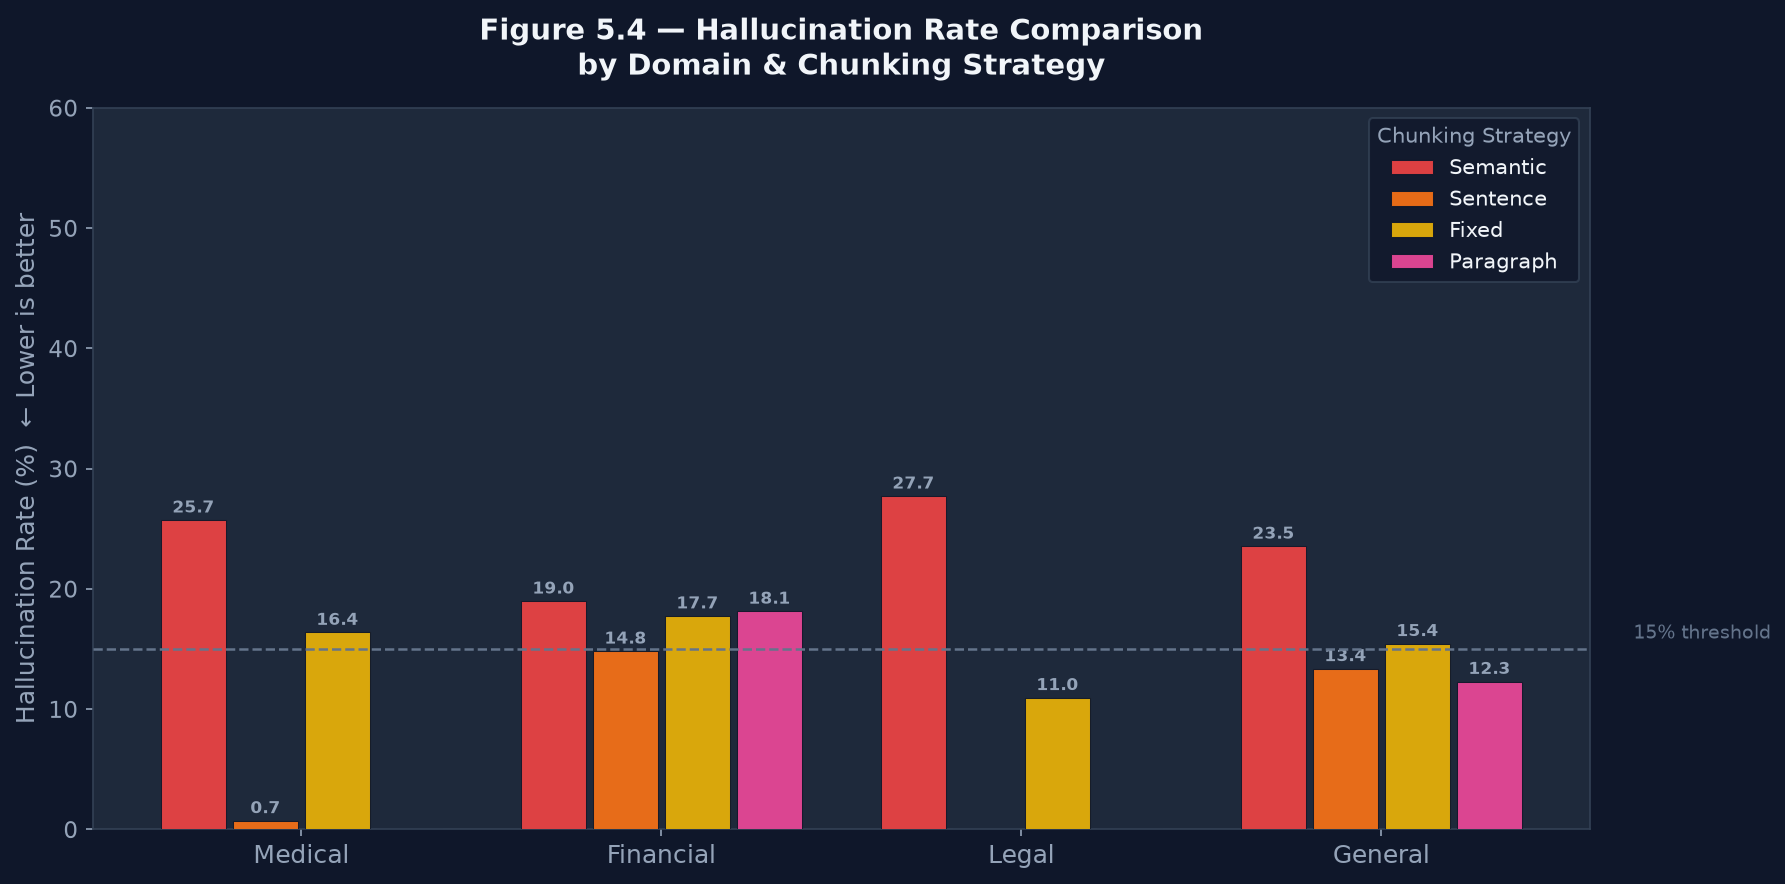
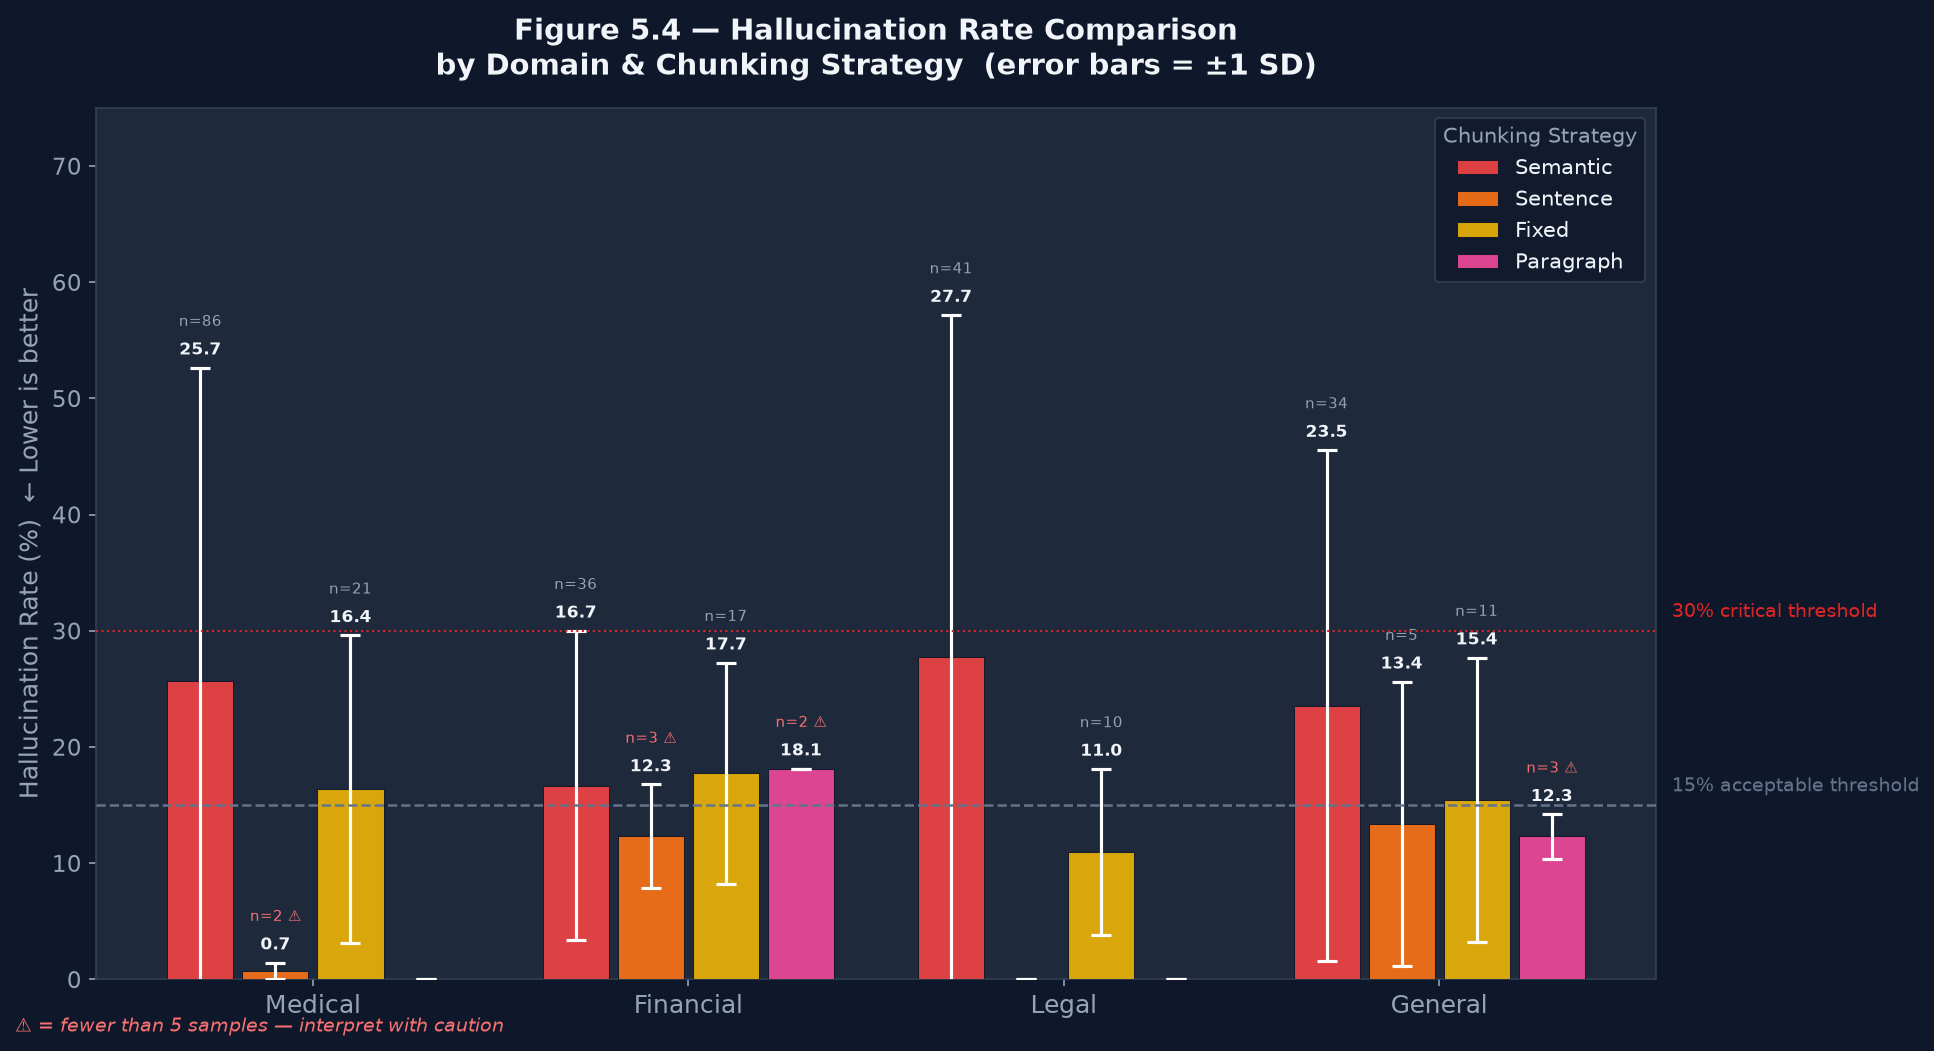
feat: add ±1 SD error bars + sample size annotations to Fig 5.1 & 5.4
- Fig 5.1 (Faithfulness): error bars show std dev per strategy per domain
- Fig 5.4 (Hallucination): error bars + dual threshold lines (15% / 30%)
- Both charts now show n= sample counts with ⚠ warning for n<5
- Added agg_with_stats() helper returning (mean, std, n) per bucket
- Reveals Semantic chunking is highly inconsistent (Legal ±29.5%, Medical ±26.9%)
- Fixed chunking is more reliable: Legal ±7.1%, Financial ±9.5%

diff --git a/scripts/generate_charts.py b/scripts/generate_charts.py
@@ -71,6 +71,24 @@ def agg_by_domain_strategy(metric):
             bucket[(dom, strat)].append(val)
     return {k: np.mean(v) for k, v in bucket.items()}
 
+def agg_with_stats(metric):
+    """Returns (mean, std, n) per (domain, strategy). Used for error bars."""
+    bucket = defaultdict(list)
+    for r in records:
+        dom   = r.get("domain", "")
+        strat = (r.get("config") or {}).get("chunking_strategy", "")
+        val   = r.get("scores", {}).get(metric)
+        if dom in DOMAIN_ORDER and strat in STRATEGY_ORDER and val is not None:
+            bucket[(dom, strat)].append(val)
+    result = {}
+    for k, v in bucket.items():
+        result[k] = (
+            np.mean(v),
+            np.std(v) if len(v) > 1 else 0.0,
+            len(v)
+        )
+    return result
+
 def agg_by_strategy(metric):
     bucket = defaultdict(list)
     for r in records:
@@ -90,42 +108,91 @@ def agg_by_domain(metric):
     return {k: np.mean(v) for k, v in bucket.items()}
 
 # ─────────────────────────────────────────────────────────────────────────────
-# Figure 5.1 — Faithfulness Score Comparison (grouped bar by domain + strategy)
+# Figure 5.1 — Faithfulness Score Comparison  (with ±1 SD error bars)
 # ─────────────────────────────────────────────────────────────────────────────
 def fig51_faithfulness():
-    data = agg_by_domain_strategy("faithfulness")
+    stats = agg_with_stats("faithfulness")
 
-    x     = np.arange(len(DOMAIN_ORDER))
-    width = 0.20
+    x       = np.arange(len(DOMAIN_ORDER))
+    width   = 0.20
     offsets = np.linspace(-1.5, 1.5, 4) * width
 
-    fig, ax = plt.subplots(figsize=(12, 6))
+    fig, ax = plt.subplots(figsize=(13, 7))
     apply_dark_theme(fig, ax)
 
+    LOW_N = 5   # flag bars with fewer than this many samples
+
     for i, strat in enumerate(STRATEGY_ORDER):
-        vals = [data.get((dom, strat), 0) * 100 for dom in DOMAIN_ORDER]
-        bars = ax.bar(x + offsets[i], vals, width * 0.9,
-                      label=strat.capitalize(),
-                      color=STRATEGY_COLORS[strat],
-                      edgecolor=BG, linewidth=0.5, zorder=3)
-        for bar, v in zip(bars, vals):
+        means = []
+        stds  = []
+        ns    = []
+        for dom in DOMAIN_ORDER:
+            entry = stats.get((dom, strat))
+            if entry:
+                m, s, n = entry
+                means.append(m * 100)
+                stds.append(s * 100)
+                ns.append(n)
+            else:
+                means.append(0); stds.append(0); ns.append(0)
+
+        bars = ax.bar(
+            x + offsets[i], means, width * 0.88,
+            label=strat.capitalize(),
+            color=STRATEGY_COLORS[strat],
+            edgecolor=BG, linewidth=0.5, zorder=3
+        )
+        # Error bars (±1 SD)
+        ax.errorbar(
+            x + offsets[i], means, yerr=stds,
+            fmt="none",
+            ecolor="white", elinewidth=1.5, capsize=5, capthick=1.5,
+            zorder=5
+        )
+        # Labels: mean value + sample size
+        for bar, v, s, n in zip(bars, means, stds, ns):
             if v > 0:
-                ax.text(bar.get_x() + bar.get_width()/2, bar.get_height() + 0.5,
-                        f"{v:.1f}", ha="center", va="bottom",
-                        fontsize=8, color=SUBTEXT, fontweight="bold")
+                # Mean value on top of bar
+                label_y = v + s + 1.2
+                ax.text(
+                    bar.get_x() + bar.get_width() / 2, label_y,
+                    f"{v:.1f}",
+                    ha="center", va="bottom",
+                    fontsize=8, color=TEXT, fontweight="bold"
+                )
+                # Sample size below the mean label
+                ax.text(
+                    bar.get_x() + bar.get_width() / 2, label_y + 3.0,
+                    f"n={n}" + (" ⚠" if n < LOW_N else ""),
+                    ha="center", va="bottom",
+                    fontsize=7,
+                    color="#f87171" if n < LOW_N else SUBTEXT
+                )
 
     ax.set_xticks(x)
     ax.set_xticklabels([d.capitalize() for d in DOMAIN_ORDER], fontsize=12)
-    ax.set_ylim(0, 115)
+    ax.set_ylim(0, 135)
     ax.set_ylabel("Faithfulness Score (%)", fontsize=12, color=SUBTEXT)
-    ax.set_title("Figure 5.1 — Faithfulness Score Comparison\nby Domain & Chunking Strategy",
-                 fontsize=14, fontweight="bold", color=TEXT, pad=16)
+    ax.set_title(
+        "Figure 5.1 — Faithfulness Score Comparison\n"
+        "by Domain & Chunking Strategy  (error bars = ±1 SD)",
+        fontsize=14, fontweight="bold", color=TEXT, pad=16
+    )
     ax.yaxis.grid(True, color=GRID, linewidth=0.6, zorder=0)
     ax.set_axisbelow(True)
 
-    leg = ax.legend(title="Chunking Strategy", frameon=True,
-                    facecolor=BG, edgecolor=BORDER,
-                    labelcolor=TEXT, title_fontsize=10, fontsize=10)
+    # Footnote explaining ⚠
+    fig.text(
+        0.01, 0.01,
+        "⚠ = fewer than 5 samples — interpret with caution",
+        fontsize=9, color="#f87171", style="italic"
+    )
+
+    leg = ax.legend(
+        title="Chunking Strategy", frameon=True,
+        facecolor=BG, edgecolor=BORDER,
+        labelcolor=TEXT, title_fontsize=10, fontsize=10
+    )
     leg.get_title().set_color(SUBTEXT)
 
     plt.tight_layout()
@@ -230,16 +297,15 @@ def fig53_answer_relevance():
     print(f"  ✓ {out.name}")
 
 # ─────────────────────────────────────────────────────────────────────────────
-# Figure 5.4 — Hallucination Rate Comparison (stacked / grouped)
+# Figure 5.4 — Hallucination Rate Comparison  (with ±1 SD error bars)
 # ─────────────────────────────────────────────────────────────────────────────
 def fig54_hallucination():
-    data = agg_by_domain_strategy("hallucination_rate")
+    stats = agg_with_stats("hallucination_rate")
 
-    x     = np.arange(len(DOMAIN_ORDER))
-    width = 0.20
+    x       = np.arange(len(DOMAIN_ORDER))
+    width   = 0.20
     offsets = np.linspace(-1.5, 1.5, 4) * width
 
-    # red-toned palette for danger metric
     hall_colors = {
         "semantic":  "#ef4444",
         "sentence":  "#f97316",
@@ -247,38 +313,82 @@ def fig54_hallucination():
         "paragraph": "#ec4899",
     }
 
-    fig, ax = plt.subplots(figsize=(12, 6))
+    LOW_N = 5
+    fig, ax = plt.subplots(figsize=(13, 7))
     apply_dark_theme(fig, ax)
 
     for i, strat in enumerate(STRATEGY_ORDER):
-        vals = [data.get((dom, strat), 0) * 100 for dom in DOMAIN_ORDER]
-        bars = ax.bar(x + offsets[i], vals, width * 0.9,
-                      label=strat.capitalize(),
-                      color=hall_colors[strat],
-                      edgecolor=BG, linewidth=0.5, zorder=3, alpha=0.92)
-        for bar, v in zip(bars, vals):
+        means, stds, ns = [], [], []
+        for dom in DOMAIN_ORDER:
+            entry = stats.get((dom, strat))
+            if entry:
+                m, s, n = entry
+                means.append(m * 100)
+                stds.append(s * 100)
+                ns.append(n)
+            else:
+                means.append(0); stds.append(0); ns.append(0)
+
+        bars = ax.bar(
+            x + offsets[i], means, width * 0.88,
+            label=strat.capitalize(),
+            color=hall_colors[strat],
+            edgecolor=BG, linewidth=0.5, zorder=3, alpha=0.92
+        )
+        ax.errorbar(
+            x + offsets[i], means, yerr=stds,
+            fmt="none",
+            ecolor="white", elinewidth=1.5, capsize=5, capthick=1.5,
+            zorder=5
+        )
+        for bar, v, s, n in zip(bars, means, stds, ns):
             if v > 0:
-                ax.text(bar.get_x() + bar.get_width()/2,
-                        bar.get_height() + 0.3,
-                        f"{v:.1f}", ha="center", va="bottom",
-                        fontsize=8, color=SUBTEXT, fontweight="bold")
+                label_y = v + s + 0.8
+                ax.text(
+                    bar.get_x() + bar.get_width() / 2, label_y,
+                    f"{v:.1f}",
+                    ha="center", va="bottom",
+                    fontsize=8, color=TEXT, fontweight="bold"
+                )
+                ax.text(
+                    bar.get_x() + bar.get_width() / 2, label_y + 2.5,
+                    f"n={n}" + (" ⚠" if n < LOW_N else ""),
+                    ha="center", va="bottom",
+                    fontsize=7,
+                    color="#f87171" if n < LOW_N else SUBTEXT
+                )
 
     ax.set_xticks(x)
     ax.set_xticklabels([d.capitalize() for d in DOMAIN_ORDER], fontsize=12)
-    ax.set_ylim(0, 60)
+    ax.set_ylim(0, 75)
     ax.set_ylabel("Hallucination Rate (%)  ← Lower is better", fontsize=12, color=SUBTEXT)
-    ax.set_title("Figure 5.4 — Hallucination Rate Comparison\nby Domain & Chunking Strategy",
-                 fontsize=14, fontweight="bold", color=TEXT, pad=16)
+    ax.set_title(
+        "Figure 5.4 — Hallucination Rate Comparison\n"
+        "by Domain & Chunking Strategy  (error bars = ±1 SD)",
+        fontsize=14, fontweight="bold", color=TEXT, pad=16
+    )
     ax.yaxis.grid(True, color=GRID, linewidth=0.6, zorder=0)
     ax.set_axisbelow(True)
 
-    # Add threshold line
+    # Threshold lines
     ax.axhline(y=15, color="#64748b", linestyle="--", linewidth=1.2, zorder=5)
-    ax.text(3.7, 15.5, "15% threshold", color="#64748b", fontsize=9, va="bottom")
+    ax.text(3.62, 15.8, "15% acceptable threshold",
+            color="#64748b", fontsize=9, va="bottom")
+    ax.axhline(y=30, color="#dc2626", linestyle=":", linewidth=1.0, zorder=5)
+    ax.text(3.62, 30.8, "30% critical threshold",
+            color="#dc2626", fontsize=9, va="bottom")
 
-    leg = ax.legend(title="Chunking Strategy", frameon=True,
-                    facecolor=BG, edgecolor=BORDER,
-                    labelcolor=TEXT, title_fontsize=10, fontsize=10)
+    fig.text(
+        0.01, 0.01,
+        "⚠ = fewer than 5 samples — interpret with caution",
+        fontsize=9, color="#f87171", style="italic"
+    )
+
+    leg = ax.legend(
+        title="Chunking Strategy", frameon=True,
+        facecolor=BG, edgecolor=BORDER,
+        labelcolor=TEXT, title_fontsize=10, fontsize=10
+    )
     leg.get_title().set_color(SUBTEXT)
 
     plt.tight_layout()